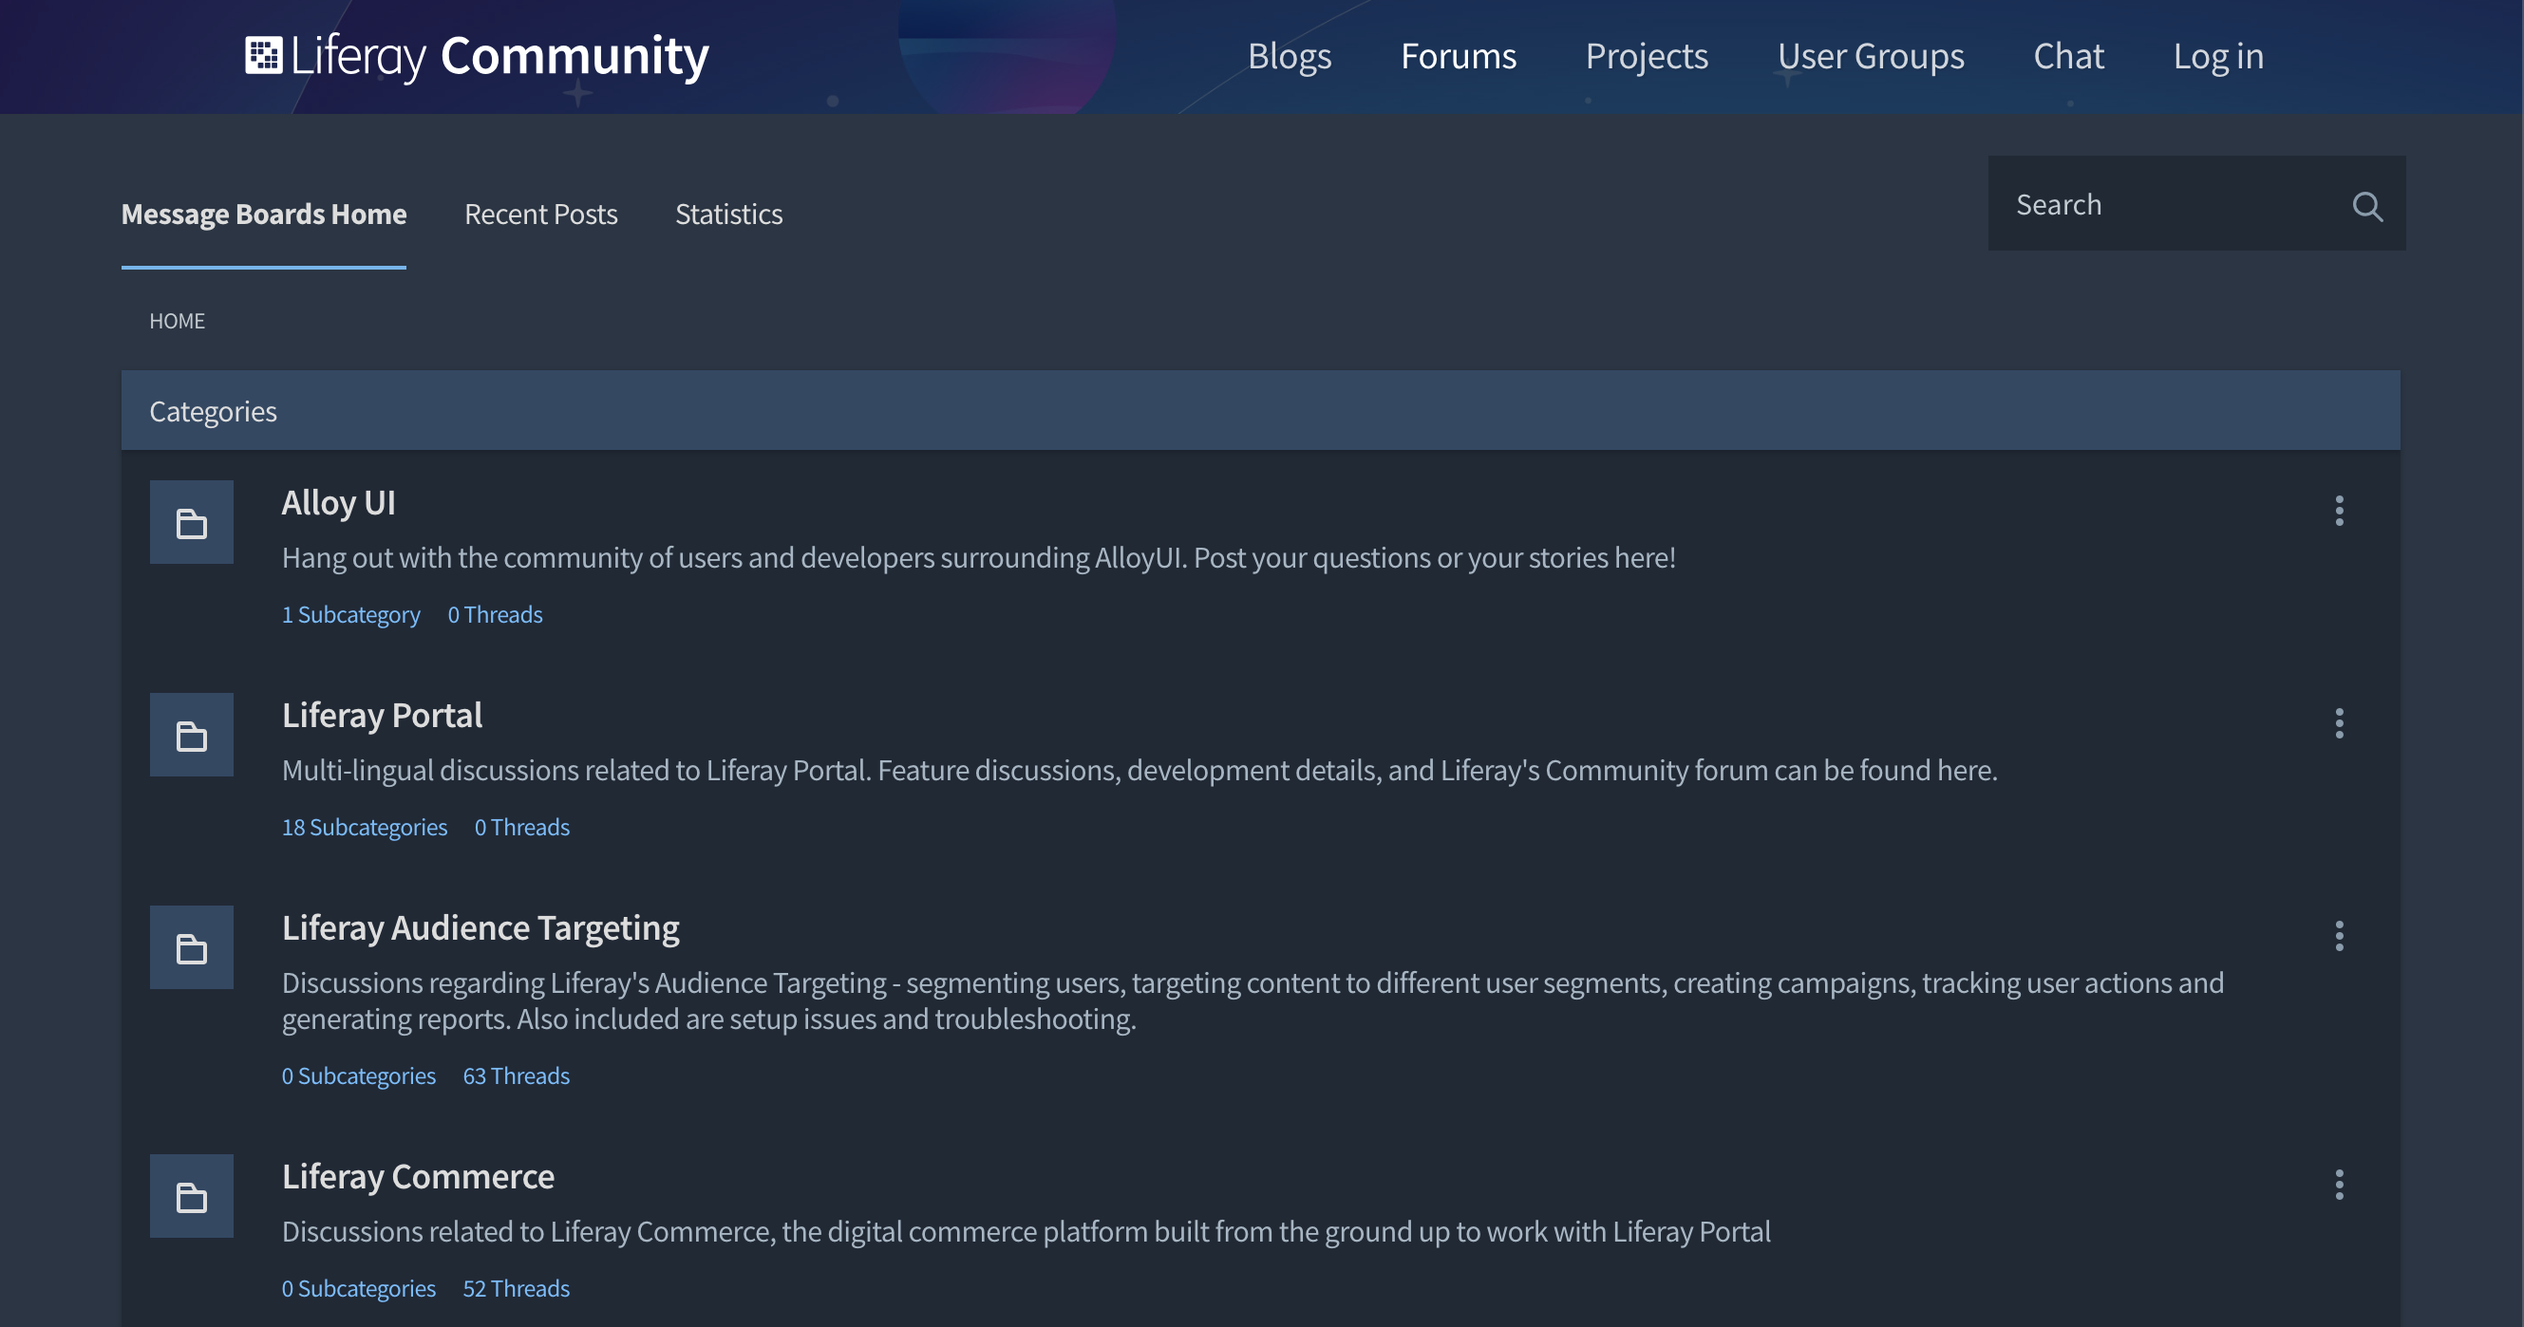
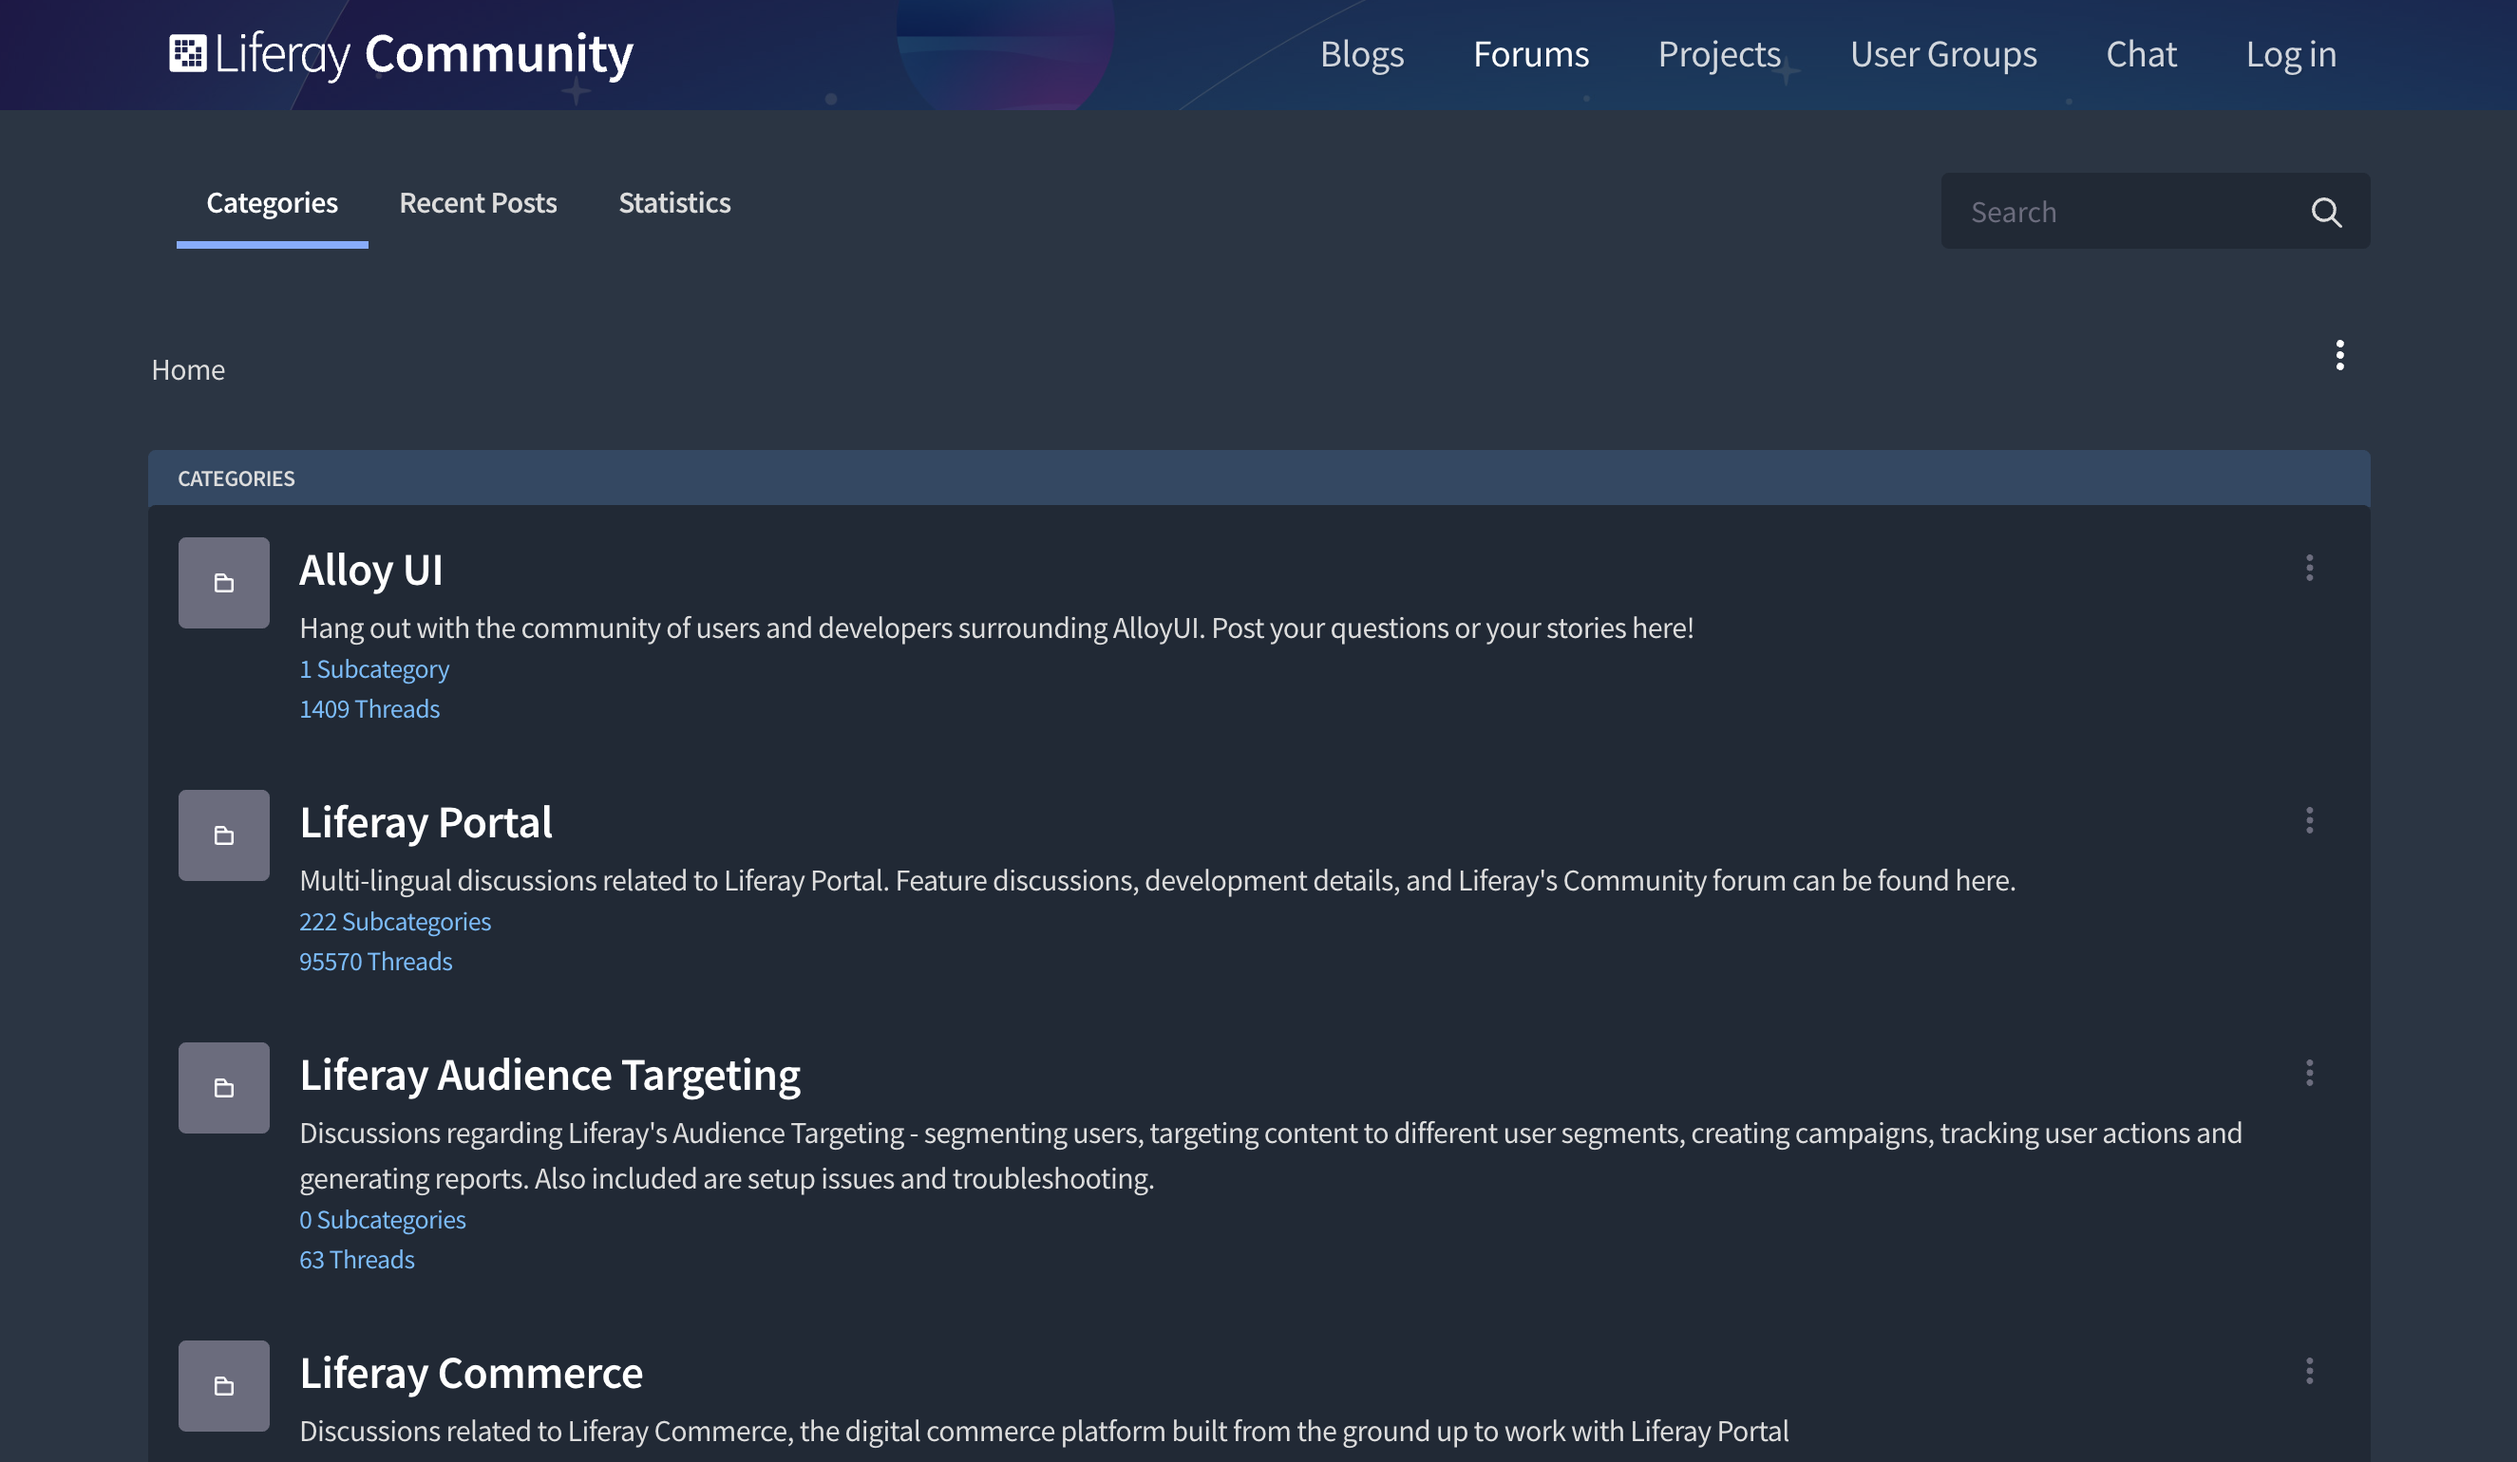
Update forums following site update

diff --git a/dark-liferay-forums.user.css b/dark-liferay-forums.user.css
@@ -1,170 +1,196 @@
 /* ==UserStyle==
 @name           Dark Liferay Forums
 @namespace      github.com/lgdd/darth-ray
-@version        1.0.0
+@version        1.0.1
 @description    Dark theme for Liferay Forums
 @author         github.com/lgdd
 @license        MIT
 @updateURL      https://raw.githubusercontent.com/lgdd/darth-ray/master/dark-liferay-forums.user.css
 ==/UserStyle== */
 @-moz-document regexp("^(https:\\/\\/)(community.liferay.com)(\\/[a-z]{2})*(\\/forums)(\\/)*(\\S)*$") {
-  .community-container-layout,
-  .navbar-default,
-  .portlet-decorate .portlet-content,
-  .pagination > .active > a,
-  .pagination > .active > a:hover,
-  .pagination > .active > a:focus,
-  .pagination > .active > span,
-  .pagination > .active > span:hover,
-  .pagination > .active > span:focus {
-      background-color: #293544;
-      color: #ddd;
-  }
-  .navbar-default .navbar-nav > .active > a,
-  .navbar-default .navbar-nav > .active > a:hover,
-  .navbar-default .navbar-nav > .active > a:focus,
-  .navbar-default .navbar-nav > li > a {
-      color: #ddd;
-  }
-  .navbar-default .navbar-nav > .active > a,
-  .navbar-default .navbar-nav > .active > a:hover,
-  .navbar-default .navbar-nav > .active > a:focus {
-      font-weight: bold;
-  }
-  .navbar-default .navbar-nav > li > a:hover,
-  .navbar-default .navbar-nav > li > a:focus,
-  .tabular-list-group .list-group-item-content a:hover,
-  .tabular-list-group .list-group-item-content a:focus,
-  .list-group-card .card-col-content a,
-  .list-group-card .card-col-content a:focus,
-  .list-group-card .card-col-content a:hover,
-  .breadcrumb a {
-      color: white;
-  }
-  .card a,
-  .card-horizontal a {
-      color: #99caff;
-  }
-  .card a:hover,
-  .card-horizontal a:hover,
-  .card a:focus,
-  .card-horizontal a:focus {
-      text-decoration: underline;
-  }
-  .pagination-results,
-  .pagination-items-per-page a,
-  .breadcrumb > .active .text-default,
-  .pagination-results,
-  .pagination-items-per-page a,
-  .breadcrumb > .active .text-default,
-  .text-default {
-      color: #a5b7c5;
-  }
-  .tabular-list-group .list-group-item-content,
-  .tabular-list-group .list-group-item-field,
-  .panel-group .panel-heading + .panel-collapse > .panel-body,
-  .card,
-  .card-horizontal {
-      background: #202a36;
-      border: none;
-  }
-  .splitter,
-  .portlet-asset-publisher .quote,
-  .portlet-message-boards .quote,
-  .portlet-trash .quote,
-  .panel-default > .panel-heading,
-  .sticker-default {
-      background-color: #304864;
-      color: #ddd;
-      border: none;
-  }
-  .dropdown-menu {
-      background-color: #304864;
-      color: #eee;
-      border: none;
-      border-radius: 0;
-  }
-  .dropdown-menu > li > a:hover,
-  .dropdown-menu > li > a:focus {
-      color: black;
-      background-color: #66b6f0;
-  }
-  .lfr-code,
-  pre,
-  code {
-      background-color: #171e27;
-      color: #55bfda;
-      border: none;
-      border-radius: 0;
-  }
-  .badge-default {
-      background-color: #171e27;
-      color: #55bfda;
-  }
-  .lfr-code tr td.line-numbers {
-      background-color: black;
-  }
-  .lfr-code tr td.line-numbers:before {
-      text-shadow: none;
-  }
-  .tabular-list-group .list-group-item-content a {
-      color: #ddd;
-      font-weight: 600;
-      font-size: 1.2rem;
-  }
-  .portlet-asset-publisher .thread-controls,
-  .portlet-message-boards .thread-controls,
-  .portlet-trash .thread-controls {
-      padding: 0;
-      margin: 0;
-      border: 0;
-      position: absolute;
-      right: 0;
-      top: 8rem;
-  }
-  .portlet-message-boards form > h3 {
-      font-size: 1.7rem;
-      font-weight: 600;
-      margin-bottom: 0;
-  }
-  .portlet-message-boards .statistics-panel-content h4 {
-      font-size: 1.5rem;
-  }
-  .list-group-item-content h5,
-  .list-group-item-content .h5 {
-      font-size: 1rem;
-  }
-  .list-group-item-content h6,
-  .list-group-item-content .h6 {
-      color: #69bdff;
-  }
-  #navigation {
-      background: rgba(0, 0, 0, .5);
-  }
-  .collapse-basic-search .basic-search .form-control {
-      padding-left: 15px;
-  }
-  .navbar.collapse-basic-search .basic-search .form-control,
-  .navbar.collapse-basic-search .basic-search .btn-default {
-      background-color: #202a36;
-      height: 50px;
-  }
-  .portlet-decorate .portlet-content,
-  .navbar-default {
-      border: none;
-  }
-  .breadcrumb {
-      margin-bottom: 10px;
-  }
-  .main-content-body {
-      margin-top: 10px;
-  }
-  .card .divider,
-  .card-horizontal .divider {
-      background-color: #293544;
-      height: 3px;
-  }
-  .footer {
-      background: rgb(38, 77, 134);
-  }
+    .community-container-layout,
+    .navbar-default,
+    .portlet-decorate .portlet-content,
+    .navigation-bar-light,
+    .pagination > li.active > a,
+    .pagination > li.active > a:hover,
+    .pagination > li.active > a:focus {
+        background-color: #293544;
+        color: #ddd;
+        font-size: 1rem;
+    }
+    .panel-default,
+    .navbar-default .navbar-nav > .active > a,
+    .navbar-default .navbar-nav > .active > a:hover,
+    .navbar-default .navbar-nav > .active > a:focus,
+    .navbar-default .navbar-nav > li > a,
+    .navigation-bar-light .nav-link,
+    .navigation-bar-light .navbar-nav .btn-unstyled,
+    .portlet-asset-publisher .message-user-display,
+    .portlet-message-boards .message-user-display,
+    .portlet-trash .message-user-display {
+        color: #ddd;
+    }
+    .navbar-default .navbar-nav > .active > a,
+    .navbar-default .navbar-nav > .active > a:hover,
+    .navbar-default .navbar-nav > .active > a:focus {
+        font-weight: bold;
+    }
+    a,
+    a:hover,
+    a:focus,
+    .lfr-search-container-wrapper a,
+    .navigation-bar-light .nav-link.active,
+    .navigation-bar-light .nav-link[aria-expanded="true"],
+    .navigation-bar-light .navbar-nav .btn-unstyled.active,
+    .navigation-bar-light .navbar-nav .btn-unstyled[aria-expanded="true"],
+    .navigation-bar-light .nav-link:hover,
+    .navigation-bar-light .navbar-nav .btn-unstyled:hover,
+    .pagination-items-per-page > a:hover,
+    .pagination-items-per-page > a:focus,
+    .pagination-items-per-page > .btn-unstyled:hover,
+    .pagination-items-per-page > .btn-unstyled:focus,
+    .show.page-item .dropdown-toggle,
+    .list-group,
+    .show.pagination-items-per-page .dropdown-toggle,
+    .pagination > li > a:hover,
+    .pagination > li > a:focus,
+    .input-group-btn:last-child > .btn:hover,
+    .input-group-btn:last-child > .btn-group > .btn:hover,
+    .input-group-btn:first-child > .btn-group:not(:first-child) > .btn:hover {
+        color: white;
+    }
+    .card a,
+    .card-horizontal a {
+        color: #99caff;
+    }
+    a:hover,
+    a:focus,
+    .card a:hover,
+    .card-horizontal a:hover,
+    .card a:focus,
+    .card-horizontal a:focus {
+        text-decoration: underline;
+    }
+    .pagination > li > a,
+    .pagination-results,
+    .pagination-items-per-page a,
+    .breadcrumb > .active .text-default,
+    .pagination-results,
+    .pagination-items-per-page a,
+    .breadcrumb > .active .text-default,
+    .breadcrumb > li.active,
+    .text-default {
+        color: #ddd;
+        font-size: 1rem;
+    }
+    .panel,
+    .list-group-notification .list-group-item {
+        background: #202a36;
+        box-shadow: none;
+        border: none;
+    }
+    .portlet-asset-publisher .quote,
+    .portlet-message-boards .quote,
+    .portlet-trash .quote,
+    .list-group-header,
+    .list-group-header-title,
+    .lfr-panel.panel-default .panel-heading {
+        background-color: #304864;
+        color: #ddd;
+        border: none;
+    }
+    .dropdown-item,
+    .dropdown-menu > li > a,
+    .dropdown-menu .link-list > li > a,
+    .dropdown-menu {
+        background-color: #304864;
+        color: #eee;
+        border: none;
+        border-radius: 0;
+    }
+    .dropdown-menu > li > a:hover,
+    .dropdown-menu > li > a:focus {
+        color: black;
+        background-color: #66b6f0;
+    }
+    .lfr-code,
+    pre,
+    code {
+        background-color: #171e27;
+        color: #55bfda;
+        border: none;
+        border-radius: 6px;
+        padding: 20px;
+    }
+    .badge-default {
+        background-color: #171e27;
+        color: #55bfda;
+    }
+    .lfr-code tr td.line-numbers {
+        background-color: black;
+    }
+    .lfr-code tr td.line-numbers:before {
+        text-shadow: none;
+    }
+    .tabular-list-group .list-group-item-content a {
+        color: #ddd;
+        font-weight: 600;
+        font-size: 1.2rem;
+    }
+    .portlet-message-boards {
+        margin: 0;
+    }
+    .portlet-message-boards form > h3 {
+        font-size: 1.7rem;
+        font-weight: 600;
+        margin-bottom: 0;
+    }
+    .portlet-message-boards .list-group .list-group-item h4 {
+        font-size: 1.5rem;
+        font-weight: 600;
+    }
+    .lfr-search-container-wrapper .list-group .list-group-item h5,
+    .lfr-search-container-wrapper .list-group .list-group-item .h5 {
+        font-size: 1rem;
+    }
+    .lfr-search-container-wrapper .list-group .list-group-item h6,
+    .lfr-search-container-wrapper .list-group .list-group-item .h6 {
+        color: #69bdff;
+    }
+    #navigation {
+        background: rgba(0, 0, 0, .5);
+    }
+    .collapse-basic-search .basic-search .form-control {
+        padding-left: 15px;
+    }
+    .basic-search .input-group-input .basic-search-slider .form-control,
+    .input-group-addon:last-child,
+    .input-group-btn:last-child > .btn,
+    .input-group-btn:last-child > .btn-group > .btn,
+    .input-group-btn:last-child > .dropdown-toggle,
+    .input-group-btn:first-child > .btn:not(:first-child),
+    .input-group-btn:first-child > .btn-group:not(:first-child) > .btn {
+        background-color: #202a36;
+        color: #ddd;
+        border: none;
+    }
+    .portlet-decorate .portlet-content,
+    .navbar-default {
+        border: none;
+    }
+    .breadcrumb {
+        margin-bottom: 10px;
+    }
+    .main-content-body {
+        margin-top: 10px;
+    }
+    .card .divider,
+    .card-horizontal .divider {
+        background-color: #293544;
+        height: 3px;
+    }
+    .footer {
+        background: rgb(38, 77, 134);
+    }
 }
